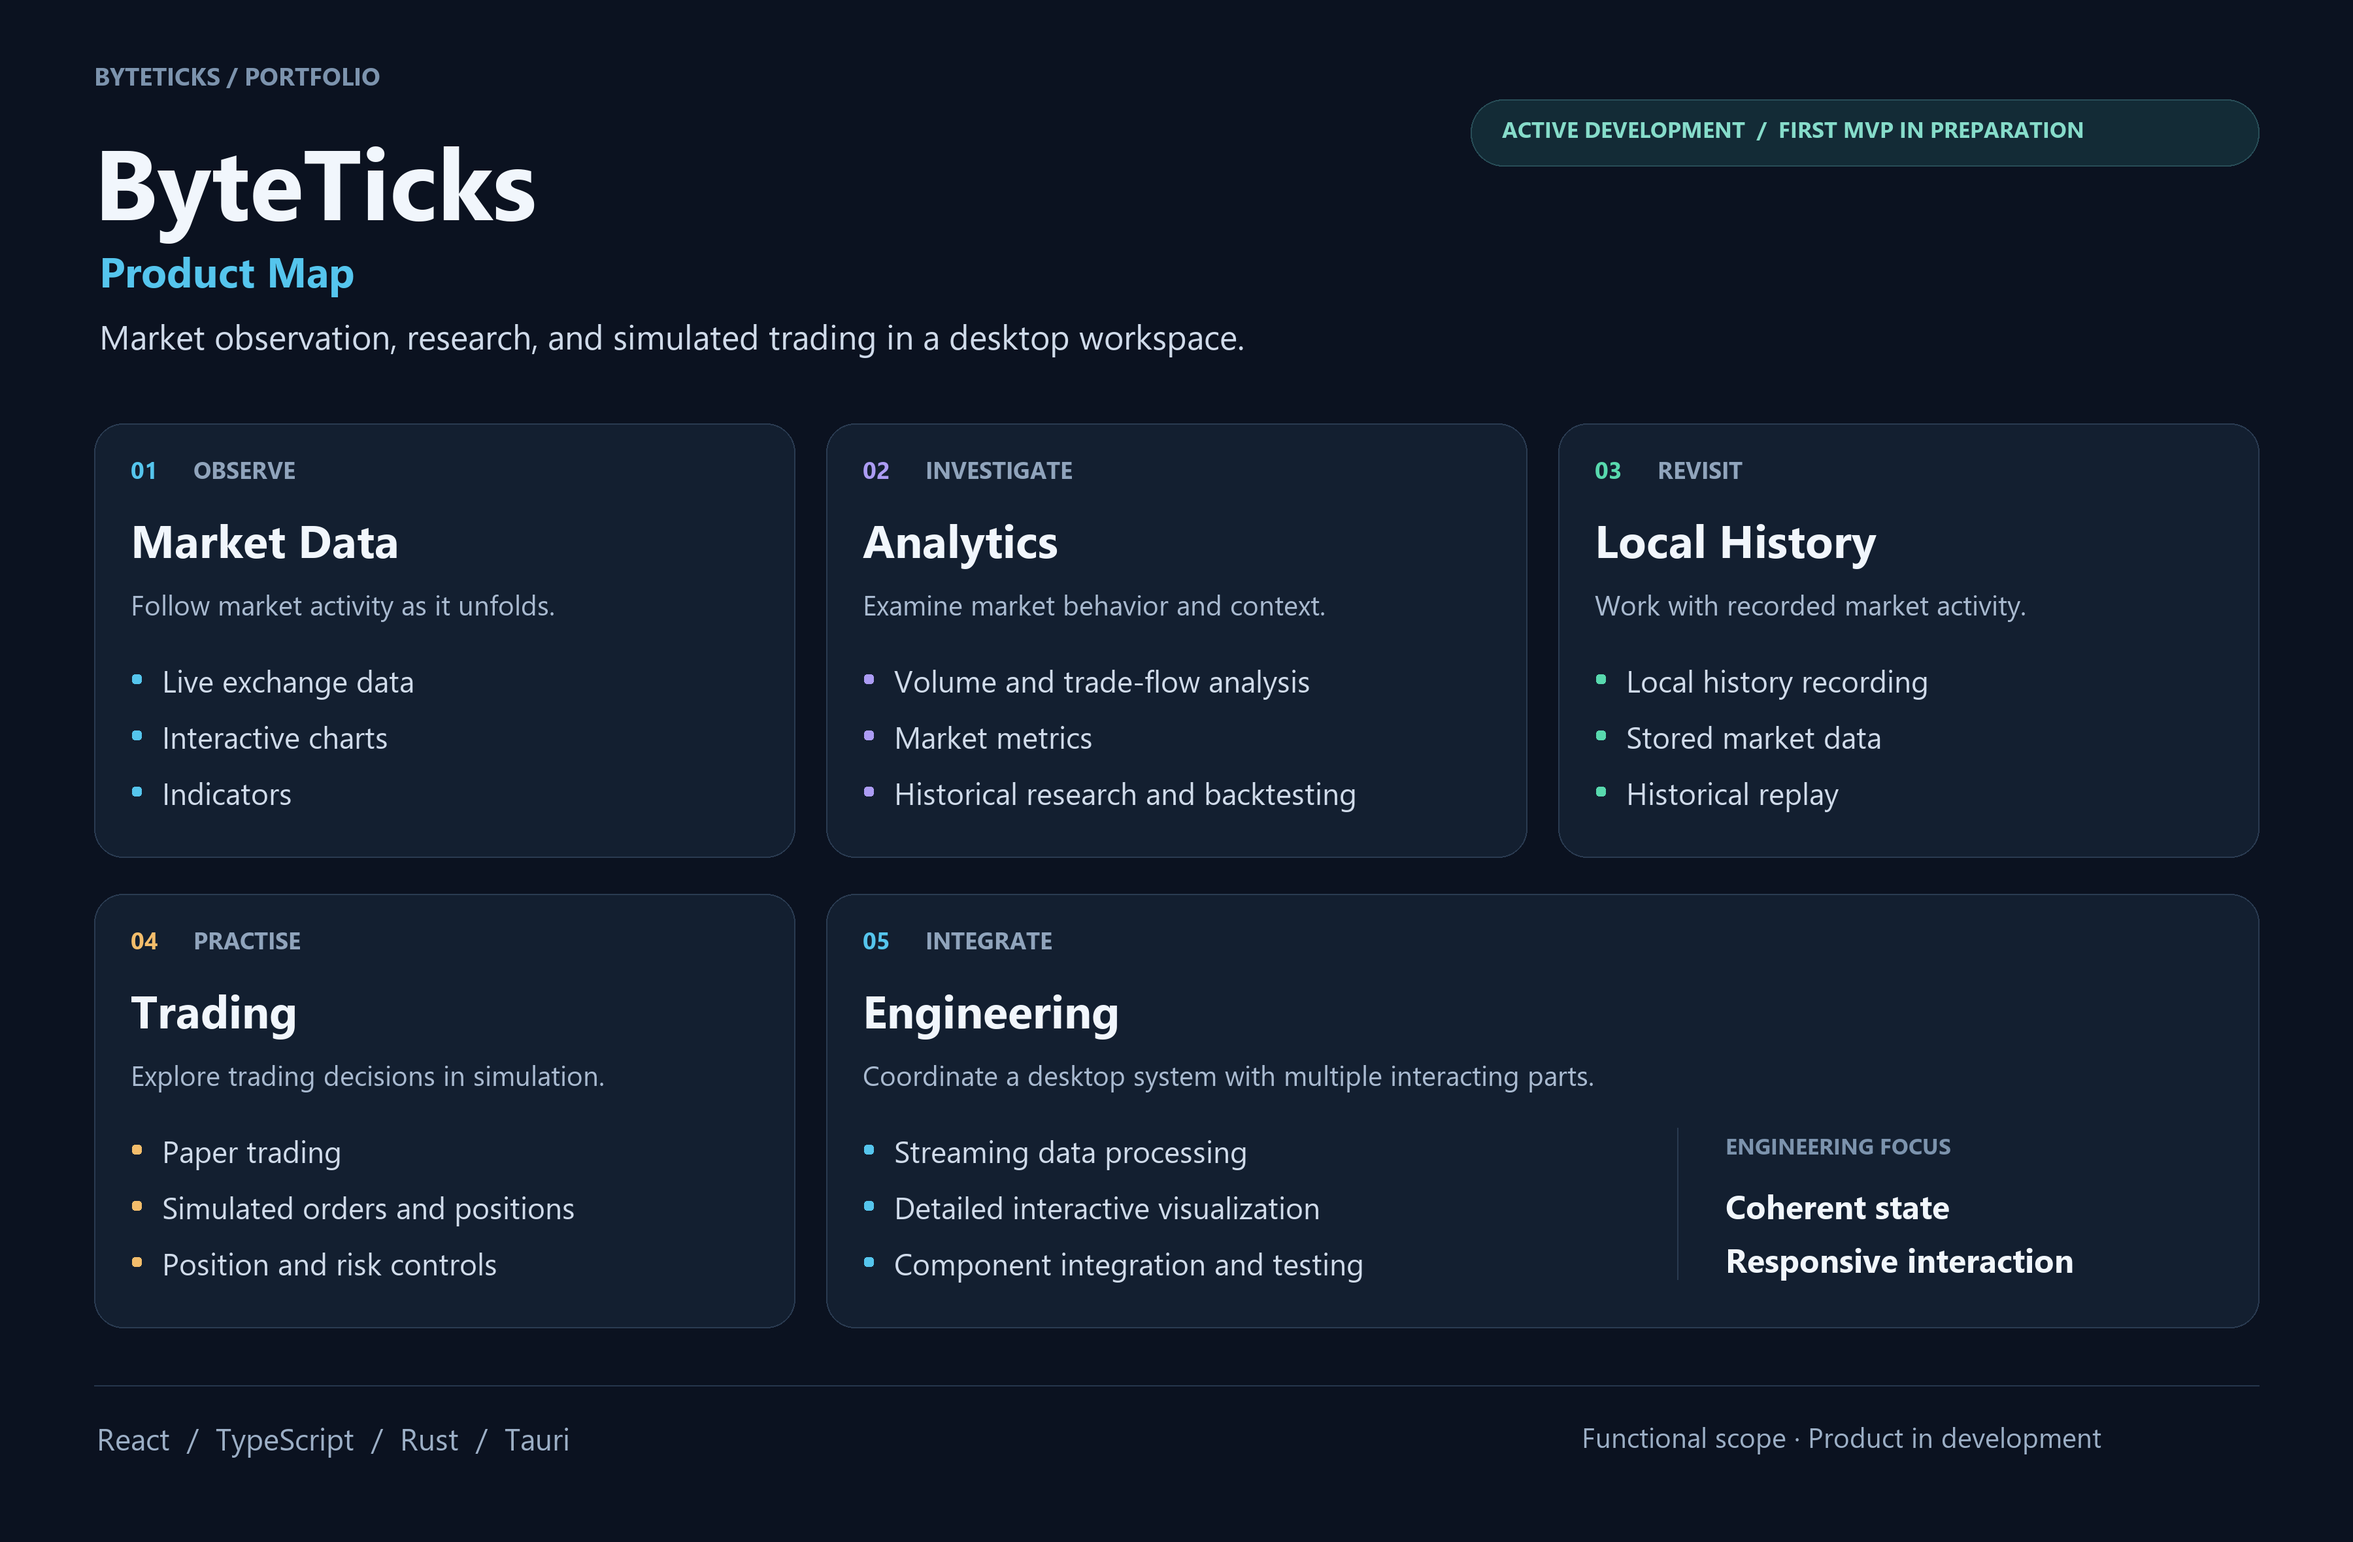
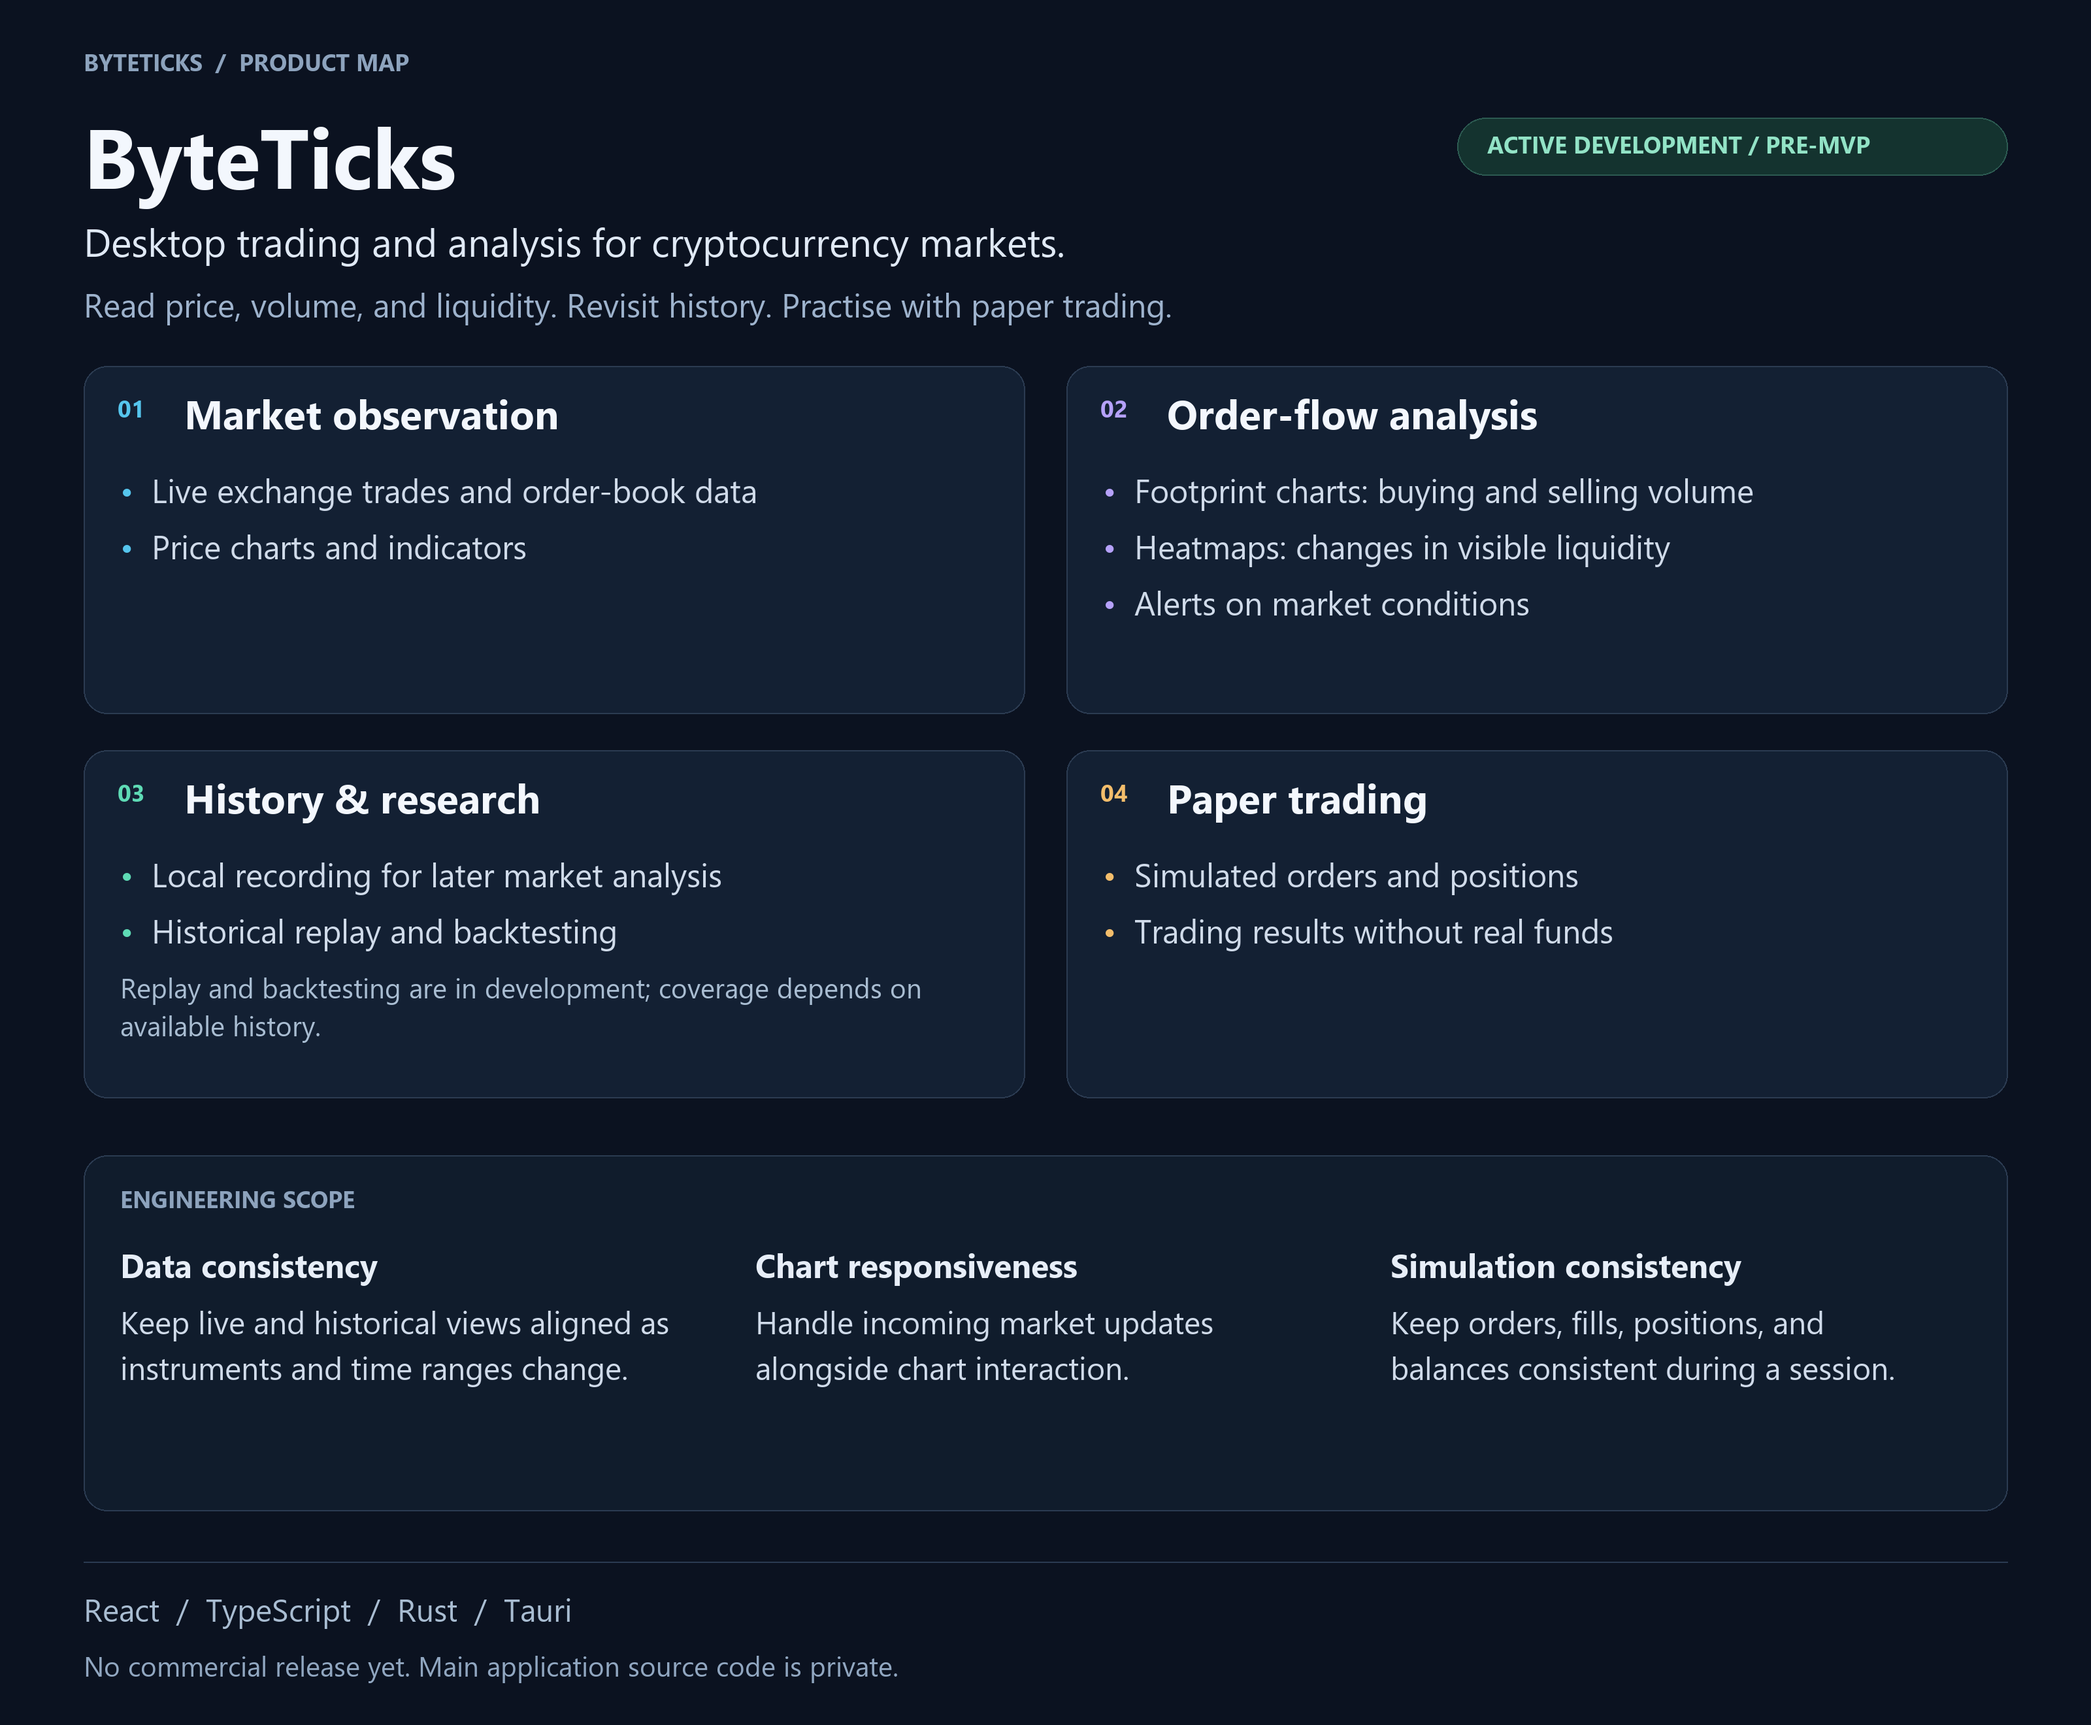
docs: clarify ByteTicks capabilities and product map

diff --git a/README.md b/README.md
@@ -1,32 +1,30 @@
 # ByteTicks
 
-ByteTicks is a desktop platform for market data, charting, and trading analytics. It is intended for traders and market researchers who want to observe markets, examine historical activity, and explore trading ideas in a desktop workspace.
+ByteTicks is a desktop trading and analysis terminal for cryptocurrency markets. It brings price charts, order-flow analysis, locally recorded market history, and paper trading into one workspace for traders and market researchers.
 
-The application brings together live market observation, local history recording, research tools, and simulated trading. These capabilities support a workflow from watching price activity to reviewing recorded data and practising trading decisions with paper accounts.
+The focus is on understanding market activity: how price moves, where trading volume is concentrated, and how visible liquidity changes. Recorded data lets users revisit that activity and investigate trading ideas.
 
 ## Core capabilities
 
-- **Market data:** access live market information for monitoring and analysis.
-- **Charts:** inspect price movements and historical market activity through interactive charts.
-- **Analytics:** examine market metrics alongside price charts to support market research.
-- **Local history recording:** record market history locally for later review and analysis.
-- **Research tools:** use historical replay and backtesting to investigate trading ideas with available historical data.
-- **Paper trading:** practise order placement and review simulated trading activity using paper accounts.
+| Area | What it enables |
+| --- | --- |
+| **Market observation** | Follow live exchange trades and order-book data alongside price charts and indicators. |
+| **Order-flow analysis** | Examine buying and selling volume with footprint charts, inspect visible liquidity with heatmaps, and set alerts on market conditions. |
+| **History and research** | Record market data locally for later analysis. Historical replay and backtesting tools are being developed around the available recorded data. |
+| **Paper trading** | Place simulated orders, manage simulated positions, and review trading results without committing real funds. |
 
-## Technology
+![ByteTicks product map: market observation, order-flow analysis, history and research, and paper trading](assets/ByteTicks-Product-Map.png)
 
-ByteTicks is built with **React**, **TypeScript**, **Rust**, and **Tauri**. This stack supports the desktop application and its market analysis tools.
+## Engineering scope
 
-## Engineering Scope
+The work spans streaming market data, chart rendering, local storage, and simulated order execution. Key engineering tasks include:
 
-ByteTicks combines a desktop user interface, backend components, streaming data processing, and local storage. Its existing functionality spans live exchange data, history recording, analytics, and visualization, requiring coordinated behavior across these parts of the application.
+- Keeping live updates and historical views consistent when users change instruments or time ranges.
+- Maintaining responsive charts while market data arrives and users interact with the workspace.
+- Keeping simulated orders, fills, positions, and account balances consistent throughout a trading session.
 
-Detailed interactive charts introduce performance demands as incoming data, historical views, and user interactions compete for processing and rendering time. Asynchronous operations, state management, and communication between components add integration challenges: updates must remain coherent as data arrives and users change their workspace.
+**Stack:** React, TypeScript, Rust, and Tauri.
 
-Engineering work includes testing individual components and their interactions, handling changes in data and connection state, and improving stability across these workflows. The product remains under active development; integration, validation, and refinement continue as the first MVP is prepared.
+## Status
 
-## Development status
-
-ByteTicks is under active development. Most core functionality has been implemented, and the project is being prepared for its first minimum viable product (MVP). Features continue to be refined and validated as part of that work.
-
-There is no commercial release yet. The main application's source code is private. This public repository provides a concise product overview for prospective users and technical readers.
+ByteTicks is under active development toward its first MVP. There is no commercial release yet. The main application source code is private; this repository contains its public overview.
